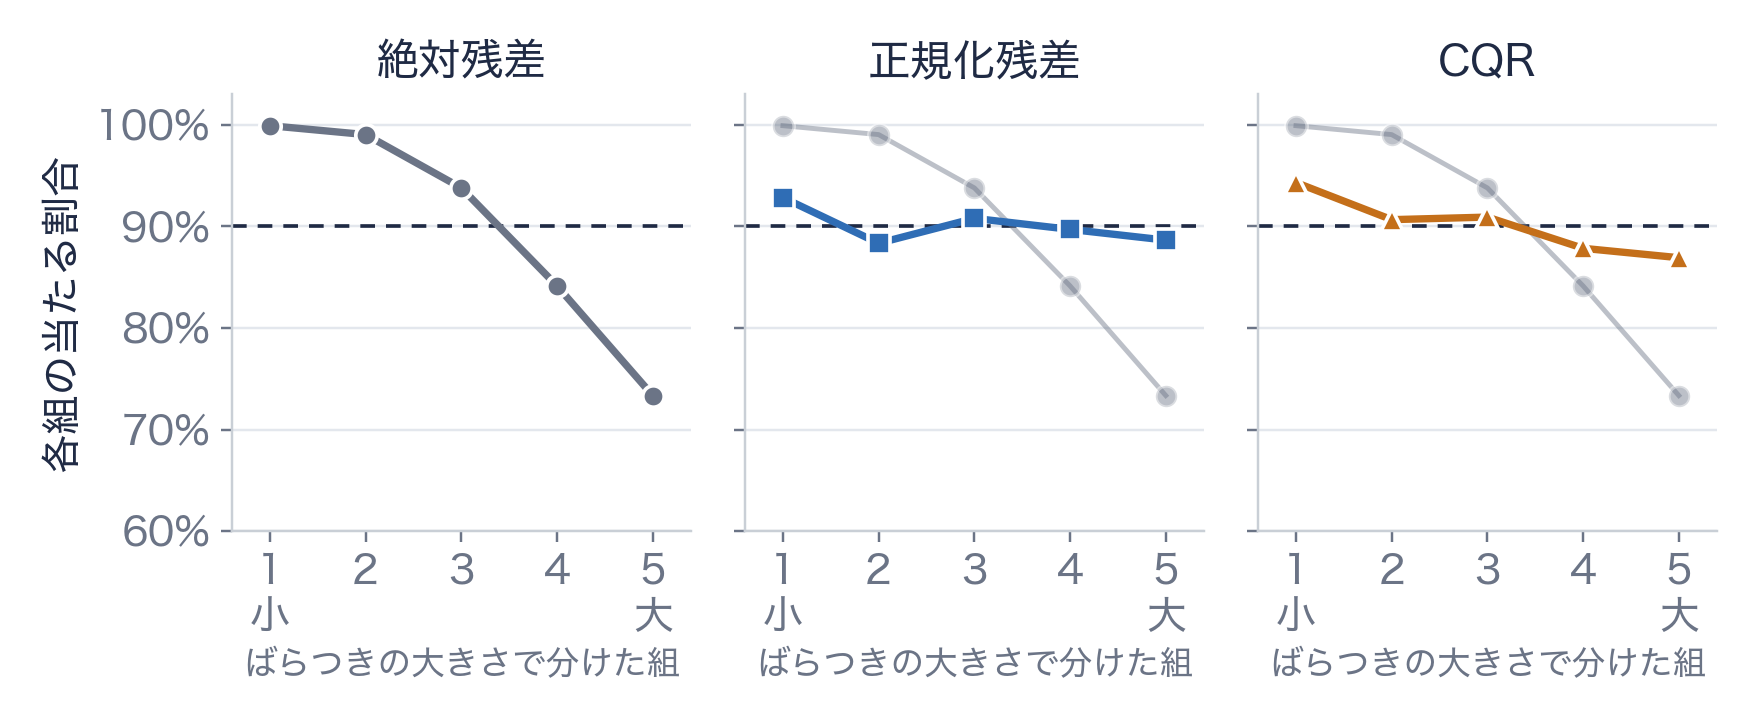
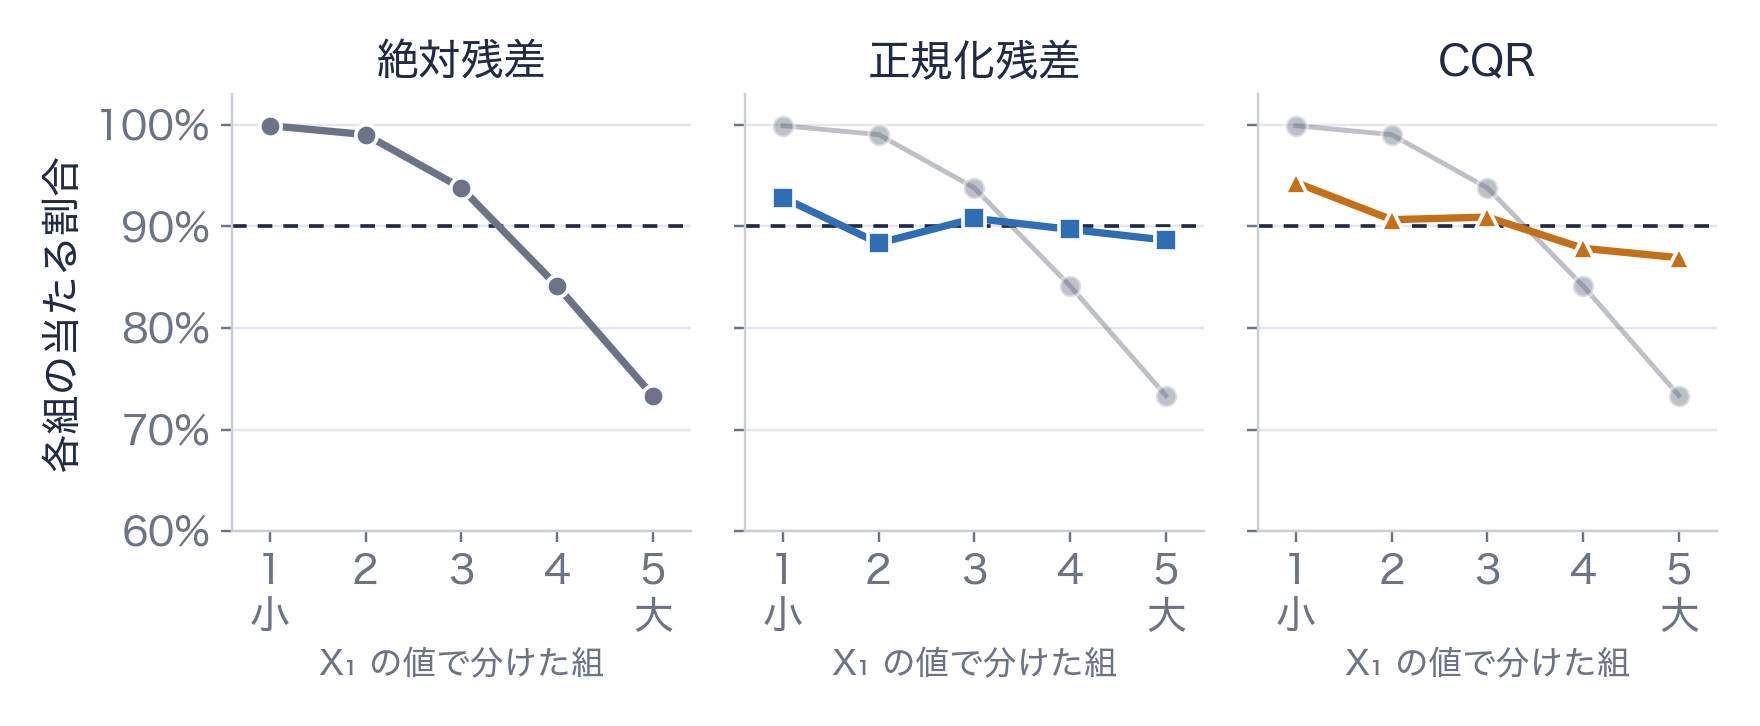
E1〜E6 の進捗スライドに Codex 2 回目の指摘を反映（保存用の元ファイルと図を更新）

Changed region(s): [[0.125, 0.8788, 0.4062, 0.9394], [0.7188, 0.8788, 0.9688, 0.9394], [0.4375, 0.8788, 0.6875, 0.9394]]

diff --git a/slides/進捗_人工データ_E1-E6/project/slides/exp1.html b/slides/進捗_人工データ_E1-E6/project/slides/exp1.html
@@ -1,7 +1,7 @@
 <section id="exp1" data-transition="fade" style="background:#FFFFFF;color:#1F2A44;font-family:'BIZ UDPGothic', Arial, sans-serif;padding:128px 128px 160px;display:flex;flex-direction:column;gap:24px">
 <h2 style="font-family:'BIZ UDPGothic', Arial, sans-serif;font-size:64px;font-weight:700;line-height:1.15;color:#1F2A44">実験 1：当たる割合のばらつき方も、理論の形とよく合う</h2>
-<p style="font-size:30px;line-height:1.5;color:#4A5568">同じ実験を 1,000 回くり返し、1 回ごとの当たる割合を並べた（棒＝実験、曲線＝理論が予言する形。横軸の範囲はパネルごとに違う）</p>
-<img src="/_blob/7b9b6a07db01f006c7566249e528c109" alt="較正用 20 点、100 点、2,000 点のそれぞれで、1,000 回の実験の当たる割合をヒストグラムにし、理論の曲線（ベータ分布）を重ねた図。どれも棒が曲線によく沿う。較正用が少ないほど横に広く、多いほど 90% の周りに集まる。破線は 90%。" style="width:1420px;height:550px;object-fit:contain;align-self:center">
+<p style="font-size:30px;line-height:1.5;color:#4A5568">同じ実験を 1,000 回くり返し、1 回ごとの当たる割合を並べた（棒＝実験、曲線＝理論が予言する形。横軸の範囲はパネルごとに違う）。予測モデルは固定し、較正用だけを毎回引き直した。当たる割合はテスト点 10 万点で測定</p>
+<img src="/_blob/7b9b6a07db01f006c7566249e528c109" alt="較正用 20 点、100 点、2,000 点のそれぞれで、1,000 回の実験の当たる割合をヒストグラムにし、理論の曲線（ベータ分布）を重ねた図。どれも棒が曲線によく沿う。較正用が少ないほど横に広く、多いほど 90% の周りに集まる。破線は 90%。" style="width:1340px;height:519px;object-fit:contain;align-self:center">
 <p style="position:absolute;left:128px;bottom:64px;width:1664px;font-size:24px;color:#6B7486">人工データでの検証　7 / 15　　目標 90% の場合。平均の当たる割合：15 通り（較正用 5 通り × 目標 3 通り）すべてで、95% 区間が理論の範囲と重なる</p>
-<aside>実験 1 です。同じ実験を 1,000 回くり返して、1 回ごとの当たる割合を並べました。棒が実験の結果、曲線が理論の予言する形です。どれも棒が曲線によく沿っています。較正用が 20 点と少ないと、1 回ごとの当たる割合は約 65% から 100% まで大きくばらつき、2,000 点あると 90% の周りに集まります。平均だけでなく、ばらつき方まで理論どおりだった、ということです。なお、横軸の範囲はパネルごとに違うので、目盛りを見比べてください。平均の当たる割合は、15 通りすべてで、95% 区間が理論の範囲と重なりました。【質問されたら】2,000 点の 2 通りでは、最初はばらつき方の検定で不一致が出ましたが、全試行で共有していたテスト集合の偏りが原因で、400 万点の別のテスト集合で測り直すと一致しました。</aside>
+<aside>実験 1 です。同じ実験を 1,000 回くり返して、1 回ごとの当たる割合を並べました。棒が実験の結果、曲線が理論の予言する形です。どれも棒が曲線によく沿っています。較正用が 20 点と少ないと、1 回ごとの当たる割合は約 65% から 100% まで大きくばらつき、2,000 点あると 90% の周りに集まります。平均だけでなく、ばらつき方も理論の形と矛盾しない、という結果です。なお、横軸の範囲はパネルごとに違うので、目盛りを見比べてください。平均の当たる割合は、15 通りすべてで、95% 区間が理論の範囲と重なりました。【質問されたら】2,000 点の 2 通りでは、最初はばらつき方の検定で不一致が出ましたが、全試行で共有していたテスト集合の偏りが原因で、400 万点の別のテスト集合で測り直すと、理論と矛盾しない結果になりました。</aside>
 </section>

diff --git a/slides/進捗_人工データ_E1-E6/project/slides/exp3.html b/slides/進捗_人工データ_E1-E6/project/slides/exp3.html
@@ -1,7 +1,7 @@
 <section id="exp3" data-transition="fade" style="background:#FFFFFF;color:#1F2A44;font-family:'BIZ UDPGothic', Arial, sans-serif;padding:128px 128px 160px;display:flex;flex-direction:column;gap:24px">
 <h2 style="font-family:'BIZ UDPGothic', Arial, sans-serif;font-size:64px;font-weight:700;line-height:1.15;color:#1F2A44">実験 3：全体は 90% でも、組ごとには偏る</h2>
 <p style="font-size:30px;line-height:1.5;color:#4A5568">外れ方が場所で変わるデータ（②）で、テスト点を X₁ の値で 0.2 刻みの 5 組に分けた（X₁ が大きい組ほど誤差が大きい）。灰色の線＝絶対残差（比較用）</p>
-<img src="/_blob/ae1d9db3b8ad273c98bdd7c8c2b8ff78" alt="3 つの手法ごとに、誤差の大きさで分けた 5 組の当たる割合を示した折れ線図。絶対残差は組 1 でほぼ 100%、組 5 で 73% まで下がる。正規化残差は 88〜93%、CQR は 87〜94% に収まり、灰色で重ねた絶対残差より 90% の破線に近い。" style="width:1380px;height:569px;object-fit:contain;align-self:center">
+<img src="/_blob/8b7ef58e95eb54b0c14bb26706c81303" alt="3 つの手法ごとに、誤差の大きさで分けた 5 組の当たる割合を示した折れ線図。絶対残差は組 1 でほぼ 100%、組 5 で 73% まで下がる。正規化残差は 88〜93%、CQR は 87〜94% に収まり、灰色で重ねた絶対残差より 90% の破線に近い。" style="width:1380px;height:569px;object-fit:contain;align-self:center">
 <p style="position:absolute;left:128px;bottom:64px;width:1664px;font-size:24px;color:#6B7486">人工データでの検証　10 / 15　　500 回の平均。組の間の差（最大−最小）：絶対残差 0.27 → 正規化残差 0.04、CQR 0.07</p>
-<aside>実験 3 です。外れ方が場所で変わるデータを使い、テスト点を、誤差の大きさを決めている X1 の値で 5 つの組に分けて、組ごとの当たる割合を見ました。左の絶対残差は、全体では 90% なのに、誤差の小さい組ではほぼ 100%、誤差の大きい組では 73% しか当たりません。幅がどこでも同じなので、誤差の小さい所には広すぎ、大きい所には狭すぎるからです。このデータは作り方を知っているので、ここは原因まで言えます。真ん中の正規化残差と右の CQR は、外れやすい所ほど幅を広くするので、組の間の差が 0.27 から 0.04、0.07 まで縮みました。ただし、組ごとの 90% までは保証されません。</aside>
+<aside>実験 3 です。外れ方が場所で変わるデータを使い、テスト点を、誤差の大きさを決めている X1 の値で 5 つの組に分けて、組ごとの当たる割合を見ました。左の絶対残差は、全体では 90% なのに、誤差の小さい組ではほぼ 100%、誤差の大きい組では 73% しか当たりません。幅がどこでも同じなのに、誤差の大きさは組によって違う、ということと整合する結果です。真ん中の正規化残差と右の CQR は、外れやすい所ほど幅を広くするので、組の間の差が 0.27 から 0.04、0.07 まで縮みました。ただし、組ごとの 90% までは保証されません。</aside>
 </section>

diff --git a/slides/進捗_人工データ_E1-E6/project/slides/summary.html b/slides/進捗_人工データ_E1-E6/project/slides/summary.html
@@ -1,7 +1,7 @@
 <section id="summary" data-transition="fade" style="background:#1F2A44;color:#F7F6F2;font-family:'BIZ UDPGothic', Arial, sans-serif;padding:128px 128px 160px;display:flex;flex-direction:column;gap:36px">
 <h2 style="font-family:'BIZ UDPGothic', Arial, sans-serif;font-size:64px;font-weight:700;line-height:1.15;color:#F7F6F2">まとめと次の予定</h2>
 <div style="display:flex;flex-direction:column;gap:16px">
-<p style="font-size:32px;line-height:1.5;color:#F7F6F2"><span style="color:#8FB4E3">1.</span> 「90% 当たる」保証は、ばらつき方も理論の形とよく合う。どの予測モデルでも成り立つ（実験 1・2）</p>
+<p style="font-size:32px;line-height:1.5;color:#F7F6F2"><span style="color:#8FB4E3">1.</span> 「90% 当たる」保証は、ばらつき方も理論と矛盾しない。どの予測モデルでも成り立つ（実験 1・2）</p>
 <p style="font-size:32px;line-height:1.5;color:#F7F6F2"><span style="color:#8FB4E3">2.</span> 保証は全体についてだけ。組ごとには偏るが、幅の決め方の工夫で小さくなる（実験 3）</p>
 <p style="font-size:32px;line-height:1.5;color:#F7F6F2"><span style="color:#8FB4E3">3.</span> 入力の分布がずれると当たる割合が下がった。正しい重みを使うと約 90% に戻った（実験 4）</p>
 <p style="font-size:32px;line-height:1.5;color:#F7F6F2"><span style="color:#8FB4E3">4.</span> 使い方の工夫：分け方（実験 5）、少ないデータでは分けずに使う（実験 6）</p>
@@ -17,5 +17,5 @@
 </div>
 </div>
 <p style="position:absolute;left:128px;bottom:64px;width:1664px;font-size:24px;color:#8FA0BC">人工データでの検証　14 / 15</p>
-<aside>まとめです。1 つ目、90% 当たるという保証は、ばらつき方まで理論どおりで、どの予測モデルでも成り立ちました。2 つ目、ただし保証は全体についてだけで、組ごとには偏ります。幅の決め方を工夫すると、その偏りは小さくなりました。3 つ目、データの分布がずれると保証は崩れますが、ずれ方が分かっていれば重みで直せます。4 つ目、使い方の工夫として、データの分け方と、少ないデータでの方法を調べました。次は、先生から提案をいただいた実データでの確認で、次回報告します。最後に 2 点ご相談です。</aside>
+<aside>まとめです。1 つ目、90% 当たるという保証は、ばらつき方も理論と矛盾せず、どの予測モデルでも成り立ちました。2 つ目、ただし保証は全体についてだけで、組ごとには偏ります。幅の決め方を工夫すると、その偏りは小さくなりました。3 つ目、今回の入力分布のずれでは当たる割合が下がり、正しい重みを使うと約 90% でした。4 つ目、使い方の工夫として、データの分け方と、少ないデータでの方法を調べました。次は、先生から提案をいただいた実データでの確認で、次回報告します。最後に 2 点ご相談です。</aside>
 </section>

diff --git a/slides/進捗_人工データ_E1-E6/project/slides/exp2.html b/slides/進捗_人工データ_E1-E6/project/slides/exp2.html
@@ -9,8 +9,8 @@
 <tr><td>ニューラルネット</td><td style="text-align:right">0.901</td><td style="text-align:right">1.85</td></tr>
 </table>
 <div style="background:#FFFFFF;border-left:8px solid #2F6DB5;padding:28px 40px">
-<p style="font-size:30px;line-height:1.5;color:#1F2A44">わざと最悪の「いつも平均を答える」モデルでも 90% 当たる。その代わり幅が広い。良いモデルほど幅が狭く、役に立つ範囲になる</p>
+<p style="font-size:30px;line-height:1.5;color:#1F2A44">わざと単純にした「いつも平均を答える」モデルでも 90% 当たり、幅は今回比べた中で最も広い。今回のデータでは、予測の誤差が小さいモデルほど幅が狭かった</p>
 </div>
 <p style="position:absolute;left:128px;bottom:64px;width:1664px;font-size:24px;color:#6B7486">人工データでの検証　8 / 15　　較正用 500 点、1,000 回の平均。後ろ 3 つは機械学習でよく使われるモデル</p>
-<aside>実験 2 です。予測モデルを 5 種類に変えて比べました。いちばん上は、どんな入力にも平均値を答えるだけの、わざと最悪にしたモデルです。それでも当たる割合は 90% になりました。保証が予測モデルの良し悪しによらない、ということです。違いが出るのは区間の幅で、最悪のモデルは幅が 2.96 と広く、機械学習のモデルでは 1.8 前後まで狭くなりました。良いモデルを使うほど、同じ 90% でも狭い、役に立つ範囲になります。</aside>
+<aside>実験 2 です。予測モデルを 5 種類に変えて比べました。いちばん上は、どんな入力にも平均値を答えるだけの、わざと最悪にしたモデルです。それでも当たる割合は 90% になりました。保証が予測モデルの良し悪しによらない、ということです。違いが出るのは区間の幅で、最悪のモデルは幅が 2.96 と広く、機械学習のモデルでは 1.8 前後まで狭くなりました。今回のデータでは、予測の誤差が小さいモデルほど、同じ 90% でも狭い範囲になりました。ただし、機械学習の 3 つの順位は、学習データを変えると入れ替わることもありました。</aside>
 </section>

diff --git a/slides/進捗_人工データ_E1-E6/project/slides/artificial.html b/slides/進捗_人工データ_E1-E6/project/slides/artificial.html
@@ -15,5 +15,5 @@
 </div>
 <p style="font-size:28px;line-height:1.5;color:#4A5568">入力 X は 5 個の数（0〜1 の一様乱数）。何度でも新しく作れるので、同じ実験を数百〜数千回くり返せる</p>
 <p style="position:absolute;left:128px;bottom:64px;width:1664px;font-size:24px;color:#6B7486">人工データでの検証　5 / 15</p>
-<aside>人工データは、こちらが決めた式から、コンピュータで作るデータです。作り方を知っているので、理論どおりかを正確に答え合わせできます。2 種類使いました。1 つ目は、外れ方がどこでも同じデータです。Y は X1 と sin 2πX2 の和に、大きさが一定の誤差を足したものです。2 つ目は、X1 が大きいほど誤差が大きくなるデータで、端と端で誤差の大きさが 11 倍違います。何度でも新しく作れるので、同じ実験を数百回から数千回くり返して、当たる割合のばらつきまで調べられます。</aside>
+<aside>人工データは、こちらが決めた式から、コンピュータで作るデータです。作り方を知っているので、くり返し実験して、理論と合うかを調べられます。2 種類使いました。1 つ目は、外れ方がどこでも同じデータです。Y は X1 と sin 2πX2 の和に、大きさが一定の誤差を足したものです。2 つ目は、X1 が大きいほど誤差が大きくなるデータで、端と端で誤差の大きさが 11 倍違います。何度でも新しく作れるので、同じ実験を数百回から数千回くり返して、当たる割合のばらつきまで調べられます。</aside>
 </section>
